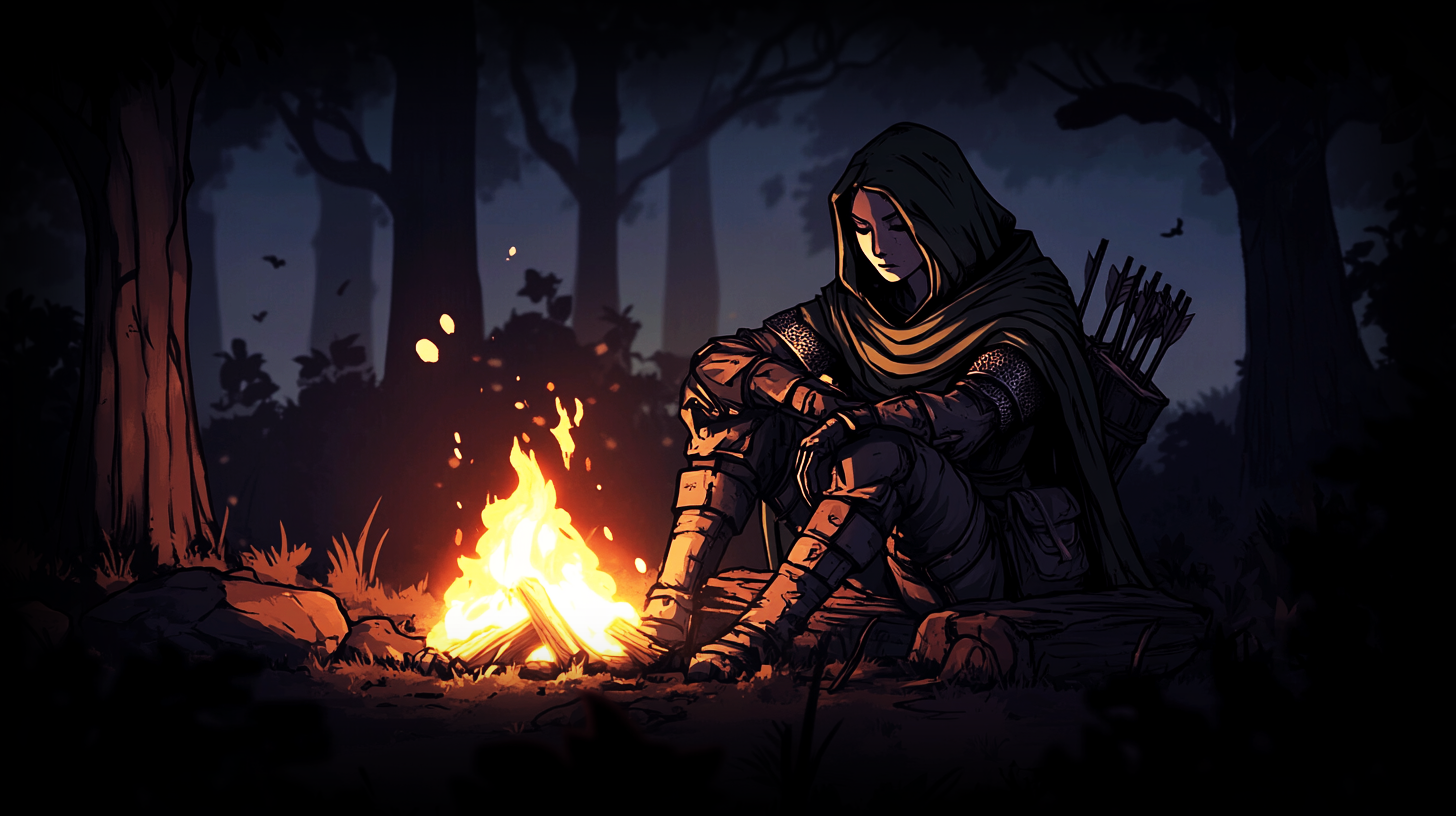
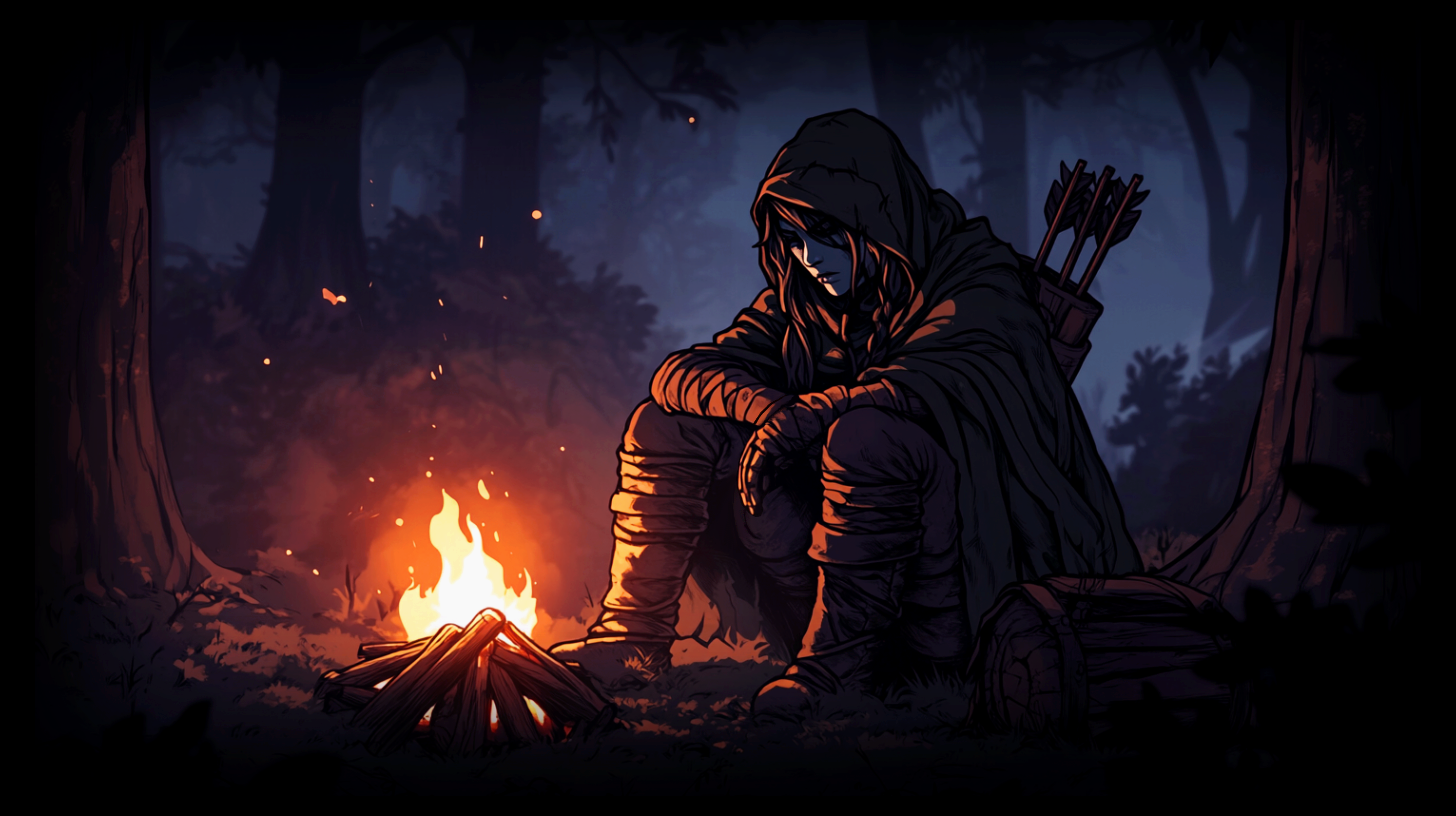
Some login screen improvements + added Druid screen/theme

diff --git a/src/haven/LoginScreen.java b/src/haven/LoginScreen.java
@@ -67,8 +67,9 @@ public class LoginScreen extends Widget {
 		add(Resource.local().loadwait("customclient/sfx/berserkerTheme"));
 		add(Resource.local().loadwait("customclient/sfx/beastmasterTheme"));
 		add(Resource.local().loadwait("customclient/sfx/dryadTheme"));
+        add(Resource.local().loadwait("customclient/sfx/druidTheme"));
 	}};
-	private static List<String> backgrounds = new ArrayList<>() {{
+	private static final List<String> backgrounds = new ArrayList<>() {{
 		add(haven.MainFrame.gameDir + "res/customclient/rogueScreen.png");
 		add(haven.MainFrame.gameDir + "res/customclient/knightScreen.png");
 		add(haven.MainFrame.gameDir + "res/customclient/vikingScreen.png");
@@ -79,6 +80,7 @@ public class LoginScreen extends Widget {
 		add(haven.MainFrame.gameDir + "res/customclient/berserkerScreen.png");
 		add(haven.MainFrame.gameDir + "res/customclient/beastmasterScreen.png");
 		add(haven.MainFrame.gameDir + "res/customclient/dryadScreen.png");
+        add(haven.MainFrame.gameDir + "res/customclient/druidScreen.png");
 	}};
 	final List<String> keys = new ArrayList<>(){{
 		add("Random!");
@@ -92,6 +94,7 @@ public class LoginScreen extends Widget {
 		add("Berserker");
 		add("Beastmaster");
 		add("Dryad");
+        add("Druid");
 	}};
 	private OldDropBox backgroundDropBox;
 	static public int bgIndex = 1;
@@ -152,7 +155,8 @@ public class LoginScreen extends Widget {
 			} else {
 				bgIndex = selindex;
 			}
-			changeLoginScreen(themes.get(bgIndex-1), backgrounds.get(bgIndex-1));
+            ee = false;
+			changeLoginScreen(backgrounds.get(bgIndex-1));
 		}
 	};
 	add(new CircleFadein(0.5));
@@ -254,7 +258,16 @@ public class LoginScreen extends Widget {
 			}
 
         }
-	}, new Coord(this.sz.x + UI.scale(-60), 10));
+
+        @Override
+        public boolean mousedown(MouseDownEvent ev) {
+            if (ev.b == 3) {
+                changeLoginScreen(haven.MainFrame.gameDir + "res/customclient/nd.png");
+                ee = true;
+            }
+            return super.mousedown(ev);
+        }
+    }, new Coord(this.sz.x + UI.scale(-60), 10));
     Config.setPlayerName(null);
     GameUI.gameTimeSpeedMultiplier = 3.29f;
     }
@@ -655,7 +668,7 @@ public class LoginScreen extends Widget {
 
 	private void playMainTheme(Resource theme) {
 		if (!mainThemeStopped &&(mainThemeClip == null || !((Audio.Mixer) Audio.player.stream).playing(mainThemeClip))) {
-				Audio.CS klippi = fromres(theme);
+				Audio.CS klippi = ee ? fromres(eeTheme) : fromres(theme);
 				mainThemeClip = new Audio.VolAdjust(klippi, Utils.getprefi("loginScreenMusicVolume", 40)/100d);
 				Audio.play(mainThemeClip);
 		}
@@ -667,8 +680,9 @@ public class LoginScreen extends Widget {
 			mainThemeStopped = true;
 		}
 	}
-
-	private void changeLoginScreen(Resource theme, String imgPath){
+    boolean ee = false;
+    Resource eeTheme = Resource.local().loadwait("customclient/sfx/ndTheme");
+	private void changeLoginScreen(String imgPath){
 		stopMainTheme();
 		mainThemeStopped = false;
 		backgroundImg.setimg(bg(imgPath));